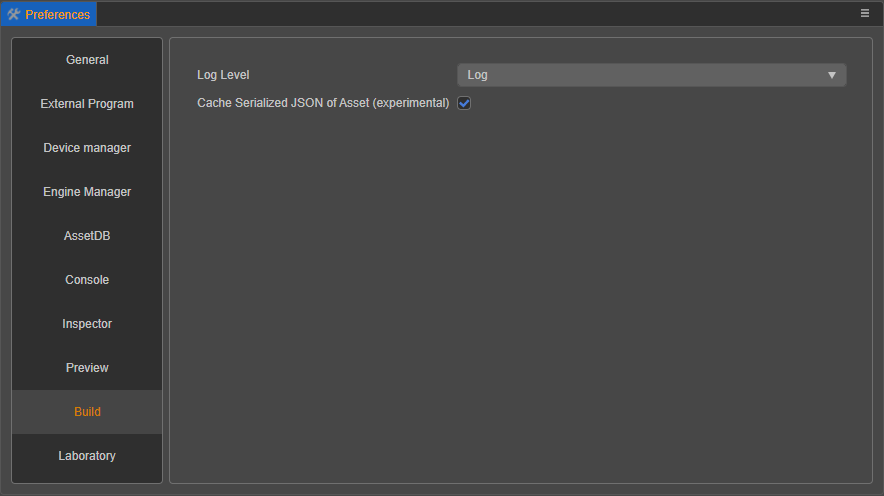
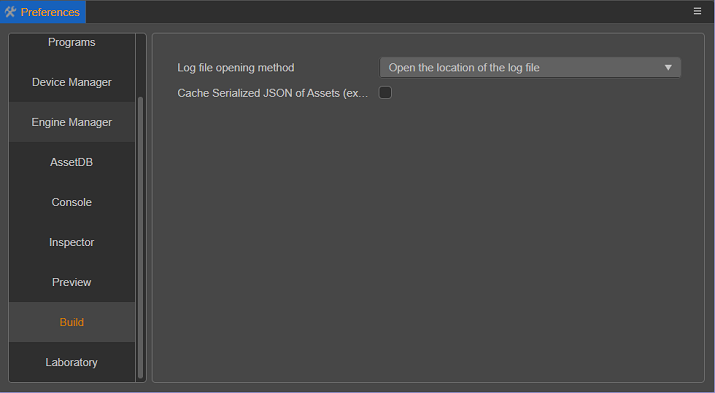
新增构建日志打开方式文档

diff --git a/zh/editor/publish/build-guide.md b/zh/editor/publish/build-guide.md
@@ -40,8 +40,10 @@ Cocos Creator 的通用构建流程，主要包括以下内容：
 
 更多关于 Asset Bundle 的配置、构建、文件说明等内容，请参考 [Asset Bundle](../../asset/bundle.md) 文档。
 
-在整理完基本的构建任务后，构建将会按照每个 Bundle 未处理单元处理完其他的构建流程。
+在整理完基本的构建任务后，The build will process other build processes according to each Bundle unit。
+conduct
 
+构建将会按照每个 Bundle 的配置再依次处理各个 Bundle。
 具体可以分为以下几个步骤：
 
 - **脚本构建**：编辑器内对脚本的构建分为 **插件脚本** 和 **非插件脚本** 两类。
@@ -185,7 +187,7 @@ Cocos Creator 的通用构建流程，主要包括以下内容：
 
 ## 常见问题指南
 
-构建的整个进程是在一个单独的 worker 内的，所以如果想要查看构建过程的日志信息或者查看出现报错时完整的调用栈，可以点击主菜单的 **开发者 -> 打开构建调试工具** 查看。构建时其实会输出很多的日志信息，但是为了不干扰用户，默认只有错误信息和重要信息会被打印到编辑器的控制台，调试工具中的日志信息才是最完整的。当然，也可以在 **偏好设置 -> 资源数据库 -> 日志等级** 中设置输出日志等级，详情可以参考 [构建相关文档](./build-panel.md)。
+构建的整个进程是在一个单独的 worker 内的，所以如果想要查看构建过程的日志信息或者查看出现报错时完整的调用栈，可以点击主菜单的 **开发者 -> 打开构建调试工具** 查看。构建时其实会输出很多的日志信息，但是为了不干扰用户，默认只有错误、警告和一些重要 log 会被打印到编辑器的控制台，调试工具中的日志信息才是最完整的。
 
 > **注意**：在构建之前 **请先确保参与构建的场景是可以正常预览的**。一些场景的资源丢失或者其他脚本问题，是在预览阶段便能暴露出来的。在保证预览正常的情况下构建能更好地节约时间以及排查问题。
 

diff --git a/zh/editor/preferences/index.md b/zh/editor/preferences/index.md
@@ -155,12 +155,12 @@
 
 ![build](./index/build.png)
 
-- **日志等级**：用于设置在构建发布到某个平台时，输出到 **控制台** 的信息类型。目前包括 **仅输出错误**、**仅输出错误和警告**、**输出错误、警告以及日志** 和 **输出所有信息** 四种。
 - **缓存资源的序列化 JSON**：为了加快构建速度，减少重复反序列化未修改资源，在资源构建过程中将会缓存资源的序列化 JSON，这部分 JSON 会放置在项目的 `temp/asset-db/assets/uuid/build` 目录下，根据 **debug** 和 **release** 模式分为 `debug.json` 和 `release.json` 存放。
 
     ![build](./index/json.png)
 
     当存在缓存资源时构建将会直接取用，这部分缓存资源会在每次资源导入后重新更新，基本不需要关心。该选项默认勾选，但如果遇到了某些特殊需求，希望构建时不存储这部分序列化构建缓存资源，取消勾选该项即可。
+- **日志文件打开方式**：默认情况下点击构建任务条上的构建日志按钮会直接打开日志文件，如果希望点击按钮打开的是对应构建日志所在位置，可以修改该选项。
 
 ## 实验室
 

diff --git a/en/editor/preferences/index.md b/en/editor/preferences/index.md
@@ -157,8 +157,6 @@ The **Build** tab is used to set up the execution of the [Build](../publish/buil
 
 ![build](./index/build.png)
 
-- **Log Level**: used to set the type of information that is output to the **console** when a build is published to a platform. Currently there are four types: **Errors Only**, **Errors and Warnings Only**, **Errors, Warnings and Logs** and **All Messages**.
-
 - **Cache Serialized JSON of Assets**: in order to speed up the build and reduce the repeated deserialization of unmodified assets, the serialized JSON of assets will be cached during the asset build process, which will be placed in the `temp/asset-db/assets/uuid/build` directory of the project and divided into `debug.json` and `release.json` according to **debug** and **release** mode.
 
   ![build](./index/json.png)
